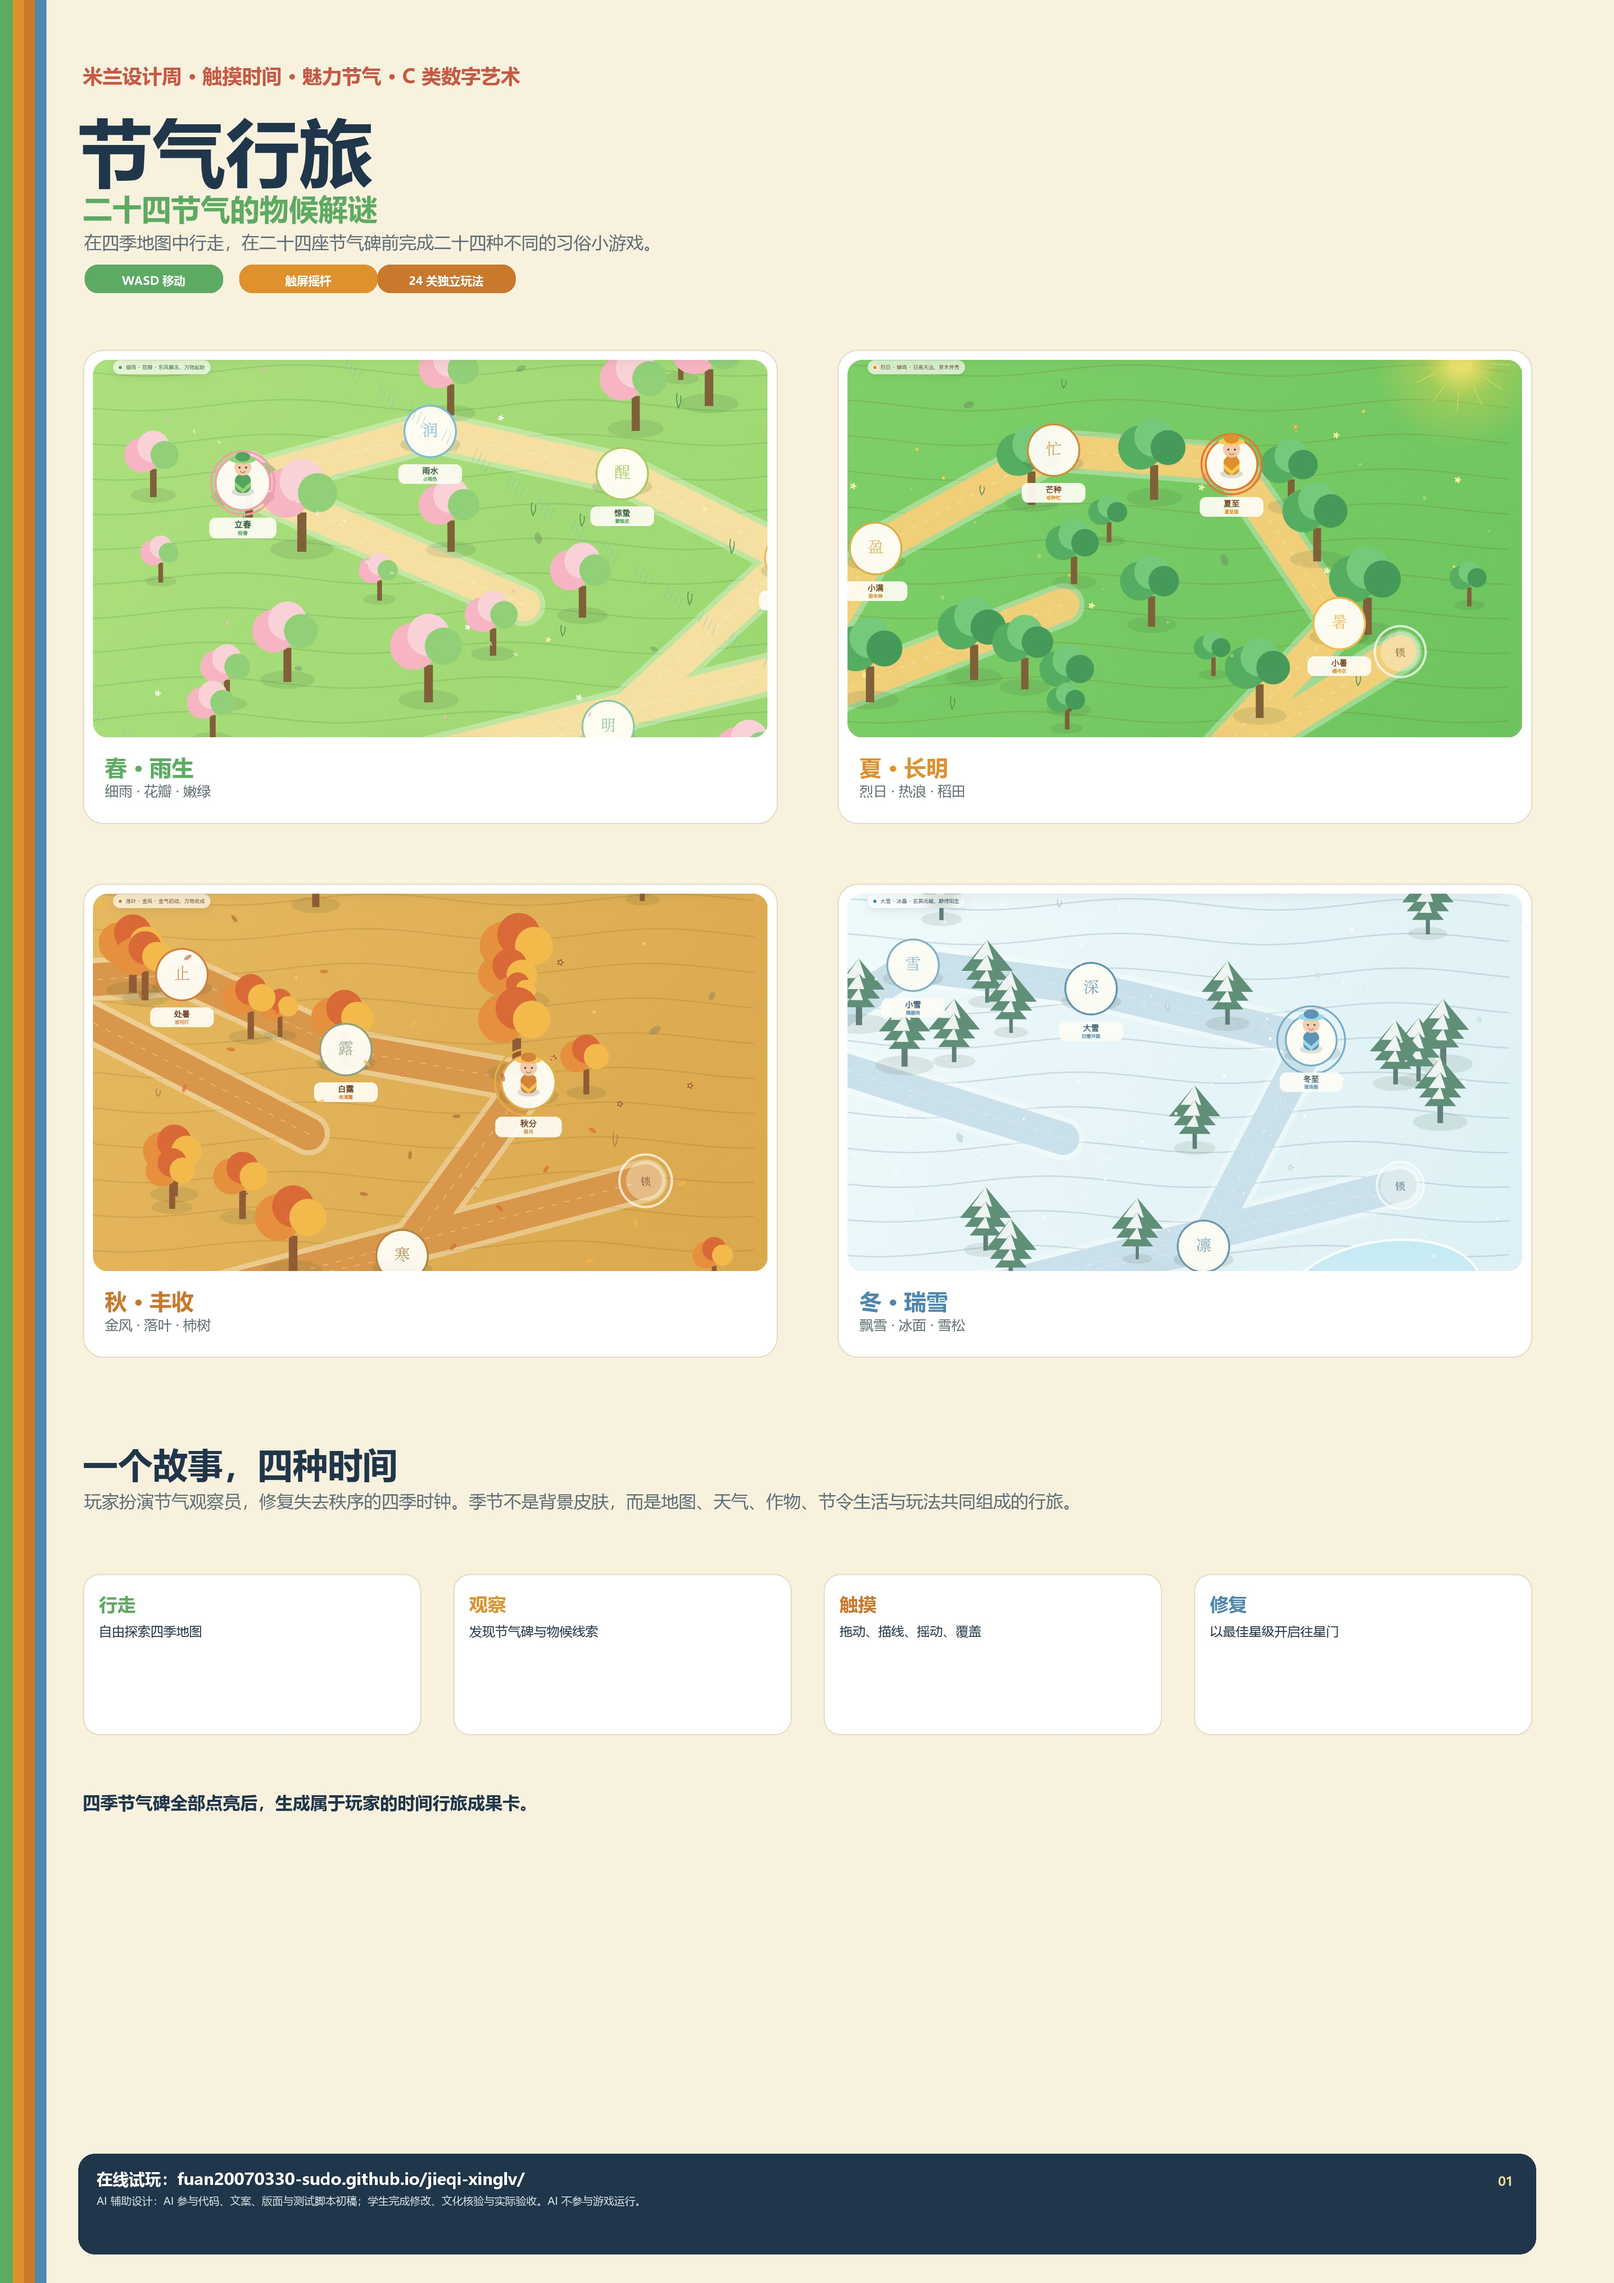
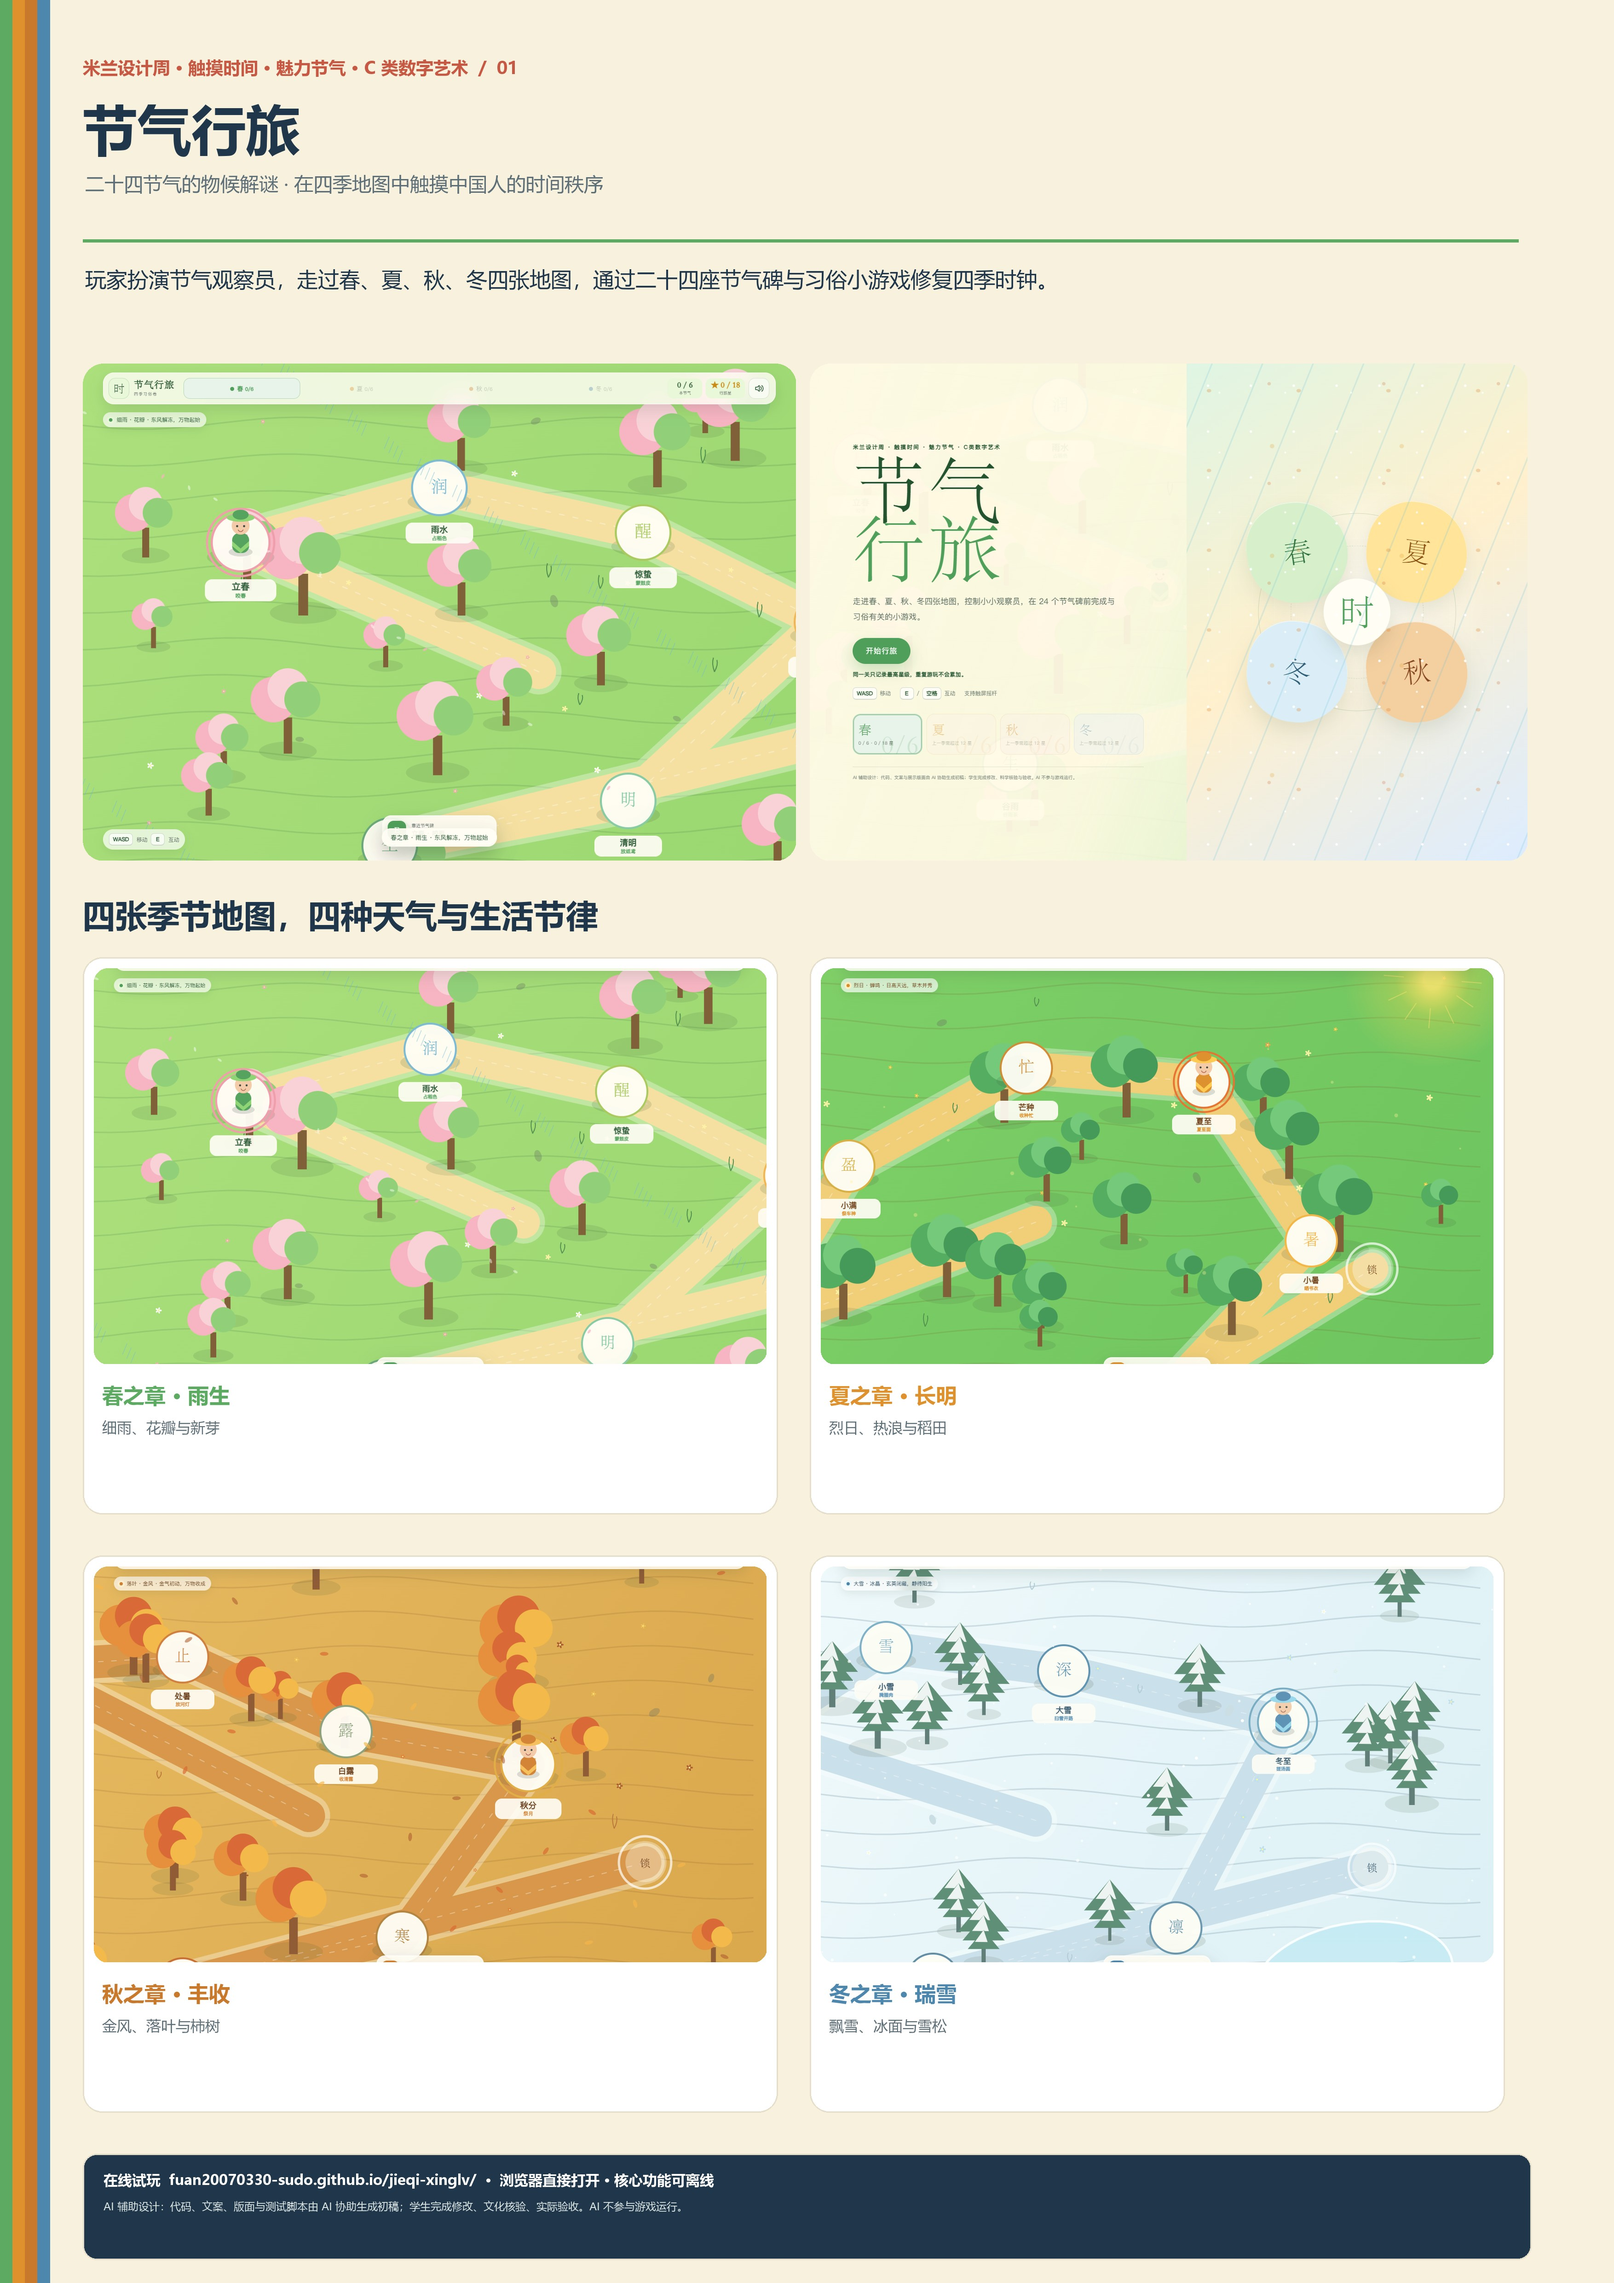
docs: prepare three A3 competition upload images

diff --git a/docs/提交材料清单.md b/docs/提交材料清单.md
@@ -36,12 +36,20 @@
 - [x] 截图说明：`output/作品截图/截图说明.md`
 - [x] 不含学校、团队成员、指导教师或个人信息
 
-## 4. 展示海报
+## 4. 赛事上传图片
 
-- [ ] 使用赛事系统官方模板完成最终展示海报
-- [x] 当前 A3 视觉设计稿：`output/展示海报/节气行旅_展示海报_A3.jpg`
-- [x] 包含作品名称、四季效果图、小游戏画面、互动说明与技术信息
+- [x] 上传图片数量：3 张（赛事上限 3 张）
+- [x] 文件目录：`output/赛事上传图片/`
+- [x] 01 四季主视觉：`01_四季主视觉_A3.jpg`，约 1.12 MB
+- [x] 02 核心玩法：`02_核心玩法_A3.jpg`，约 0.80 MB
+- [x] 03 四季成果：`03_四季成果_A3.jpg`，约 1.05 MB
+- [x] 每张画幅：A3 纵向，3508 × 4961 px，300 dpi
+- [x] 每张格式：JPG，RGB
+- [x] 单文件均小于 10 MB
+- [x] 包含作品名称、四季效果图、小游戏画面、互动说明、星级规则与技术信息
 - [x] AI 辅助设计声明
+
+- [ ] 使用赛事系统官方模板核对最终上传排版
 
 ## 5. 汇报 PPT
 

diff --git a/output/提交材料索引.md b/output/提交材料索引.md
@@ -5,6 +5,7 @@
 - 类别：C. 数字艺术类——数字游戏作品
 - 在线演示：https://fuan20070330-sudo.github.io/jieqi-xinglv/
 - 单文件离线版：`节气行旅_离线版.html`
+- 赛事上传图片（3 张，A3 / 300dpi / RGB / JPG）：`赛事上传图片/`
 - 展示海报：`展示海报/节气行旅_展示海报_A3.jpg`
 - 真实截图：`作品截图/`
 - 作品文件压缩包：`节气行旅_米兰设计周_作品文件.zip`
